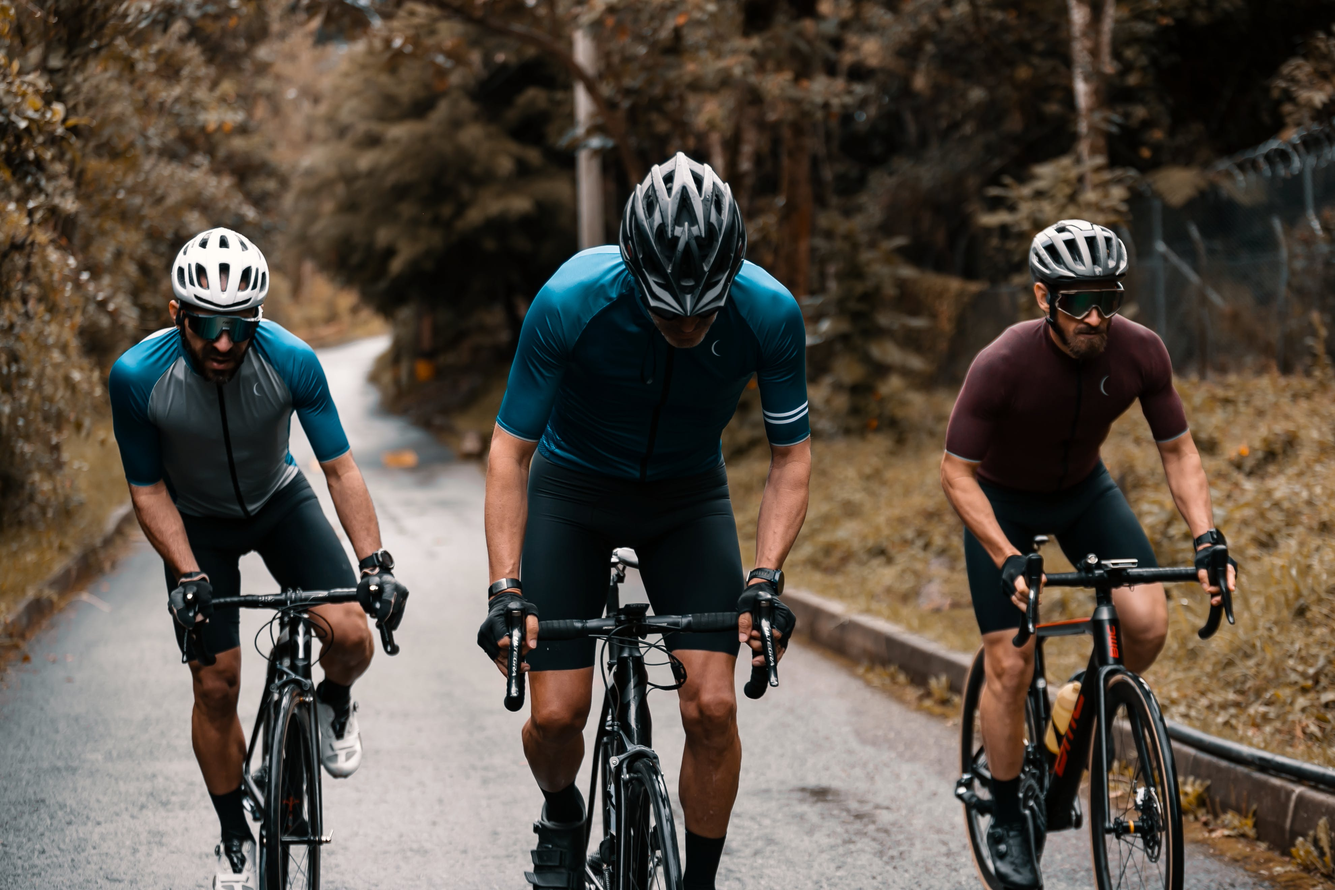
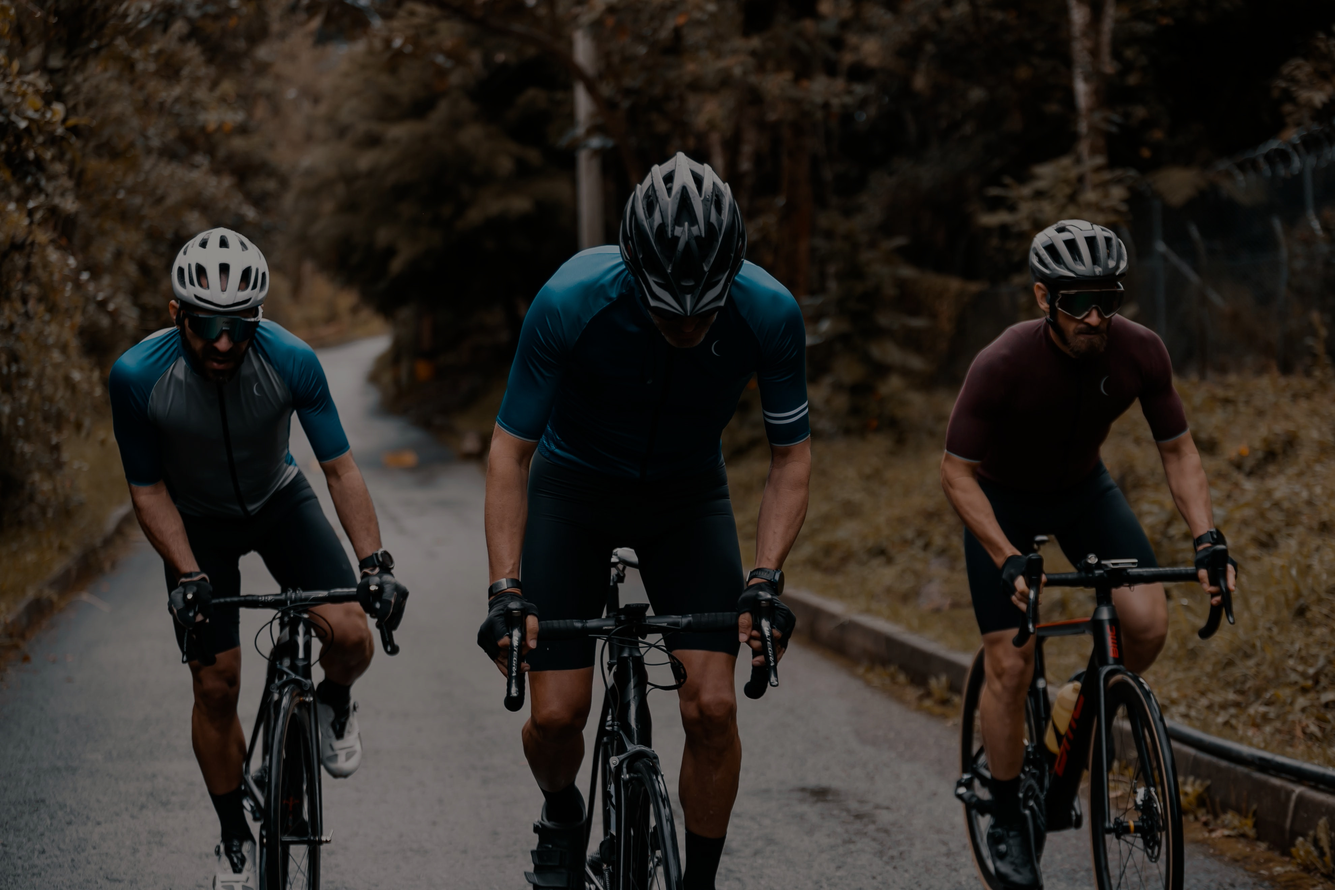
changer l'opacité des images

diff --git a/page-accueil.html b/page-accueil.html
@@ -7,6 +7,7 @@
     <link href="style-accueil.css" rel="stylesheet" >
 </head>
 <body>
+    <!-- bar de navigation -->
     <nav>
         <a class="nav-bouton" href=""><img src="images/logo.png" alt="Logo" height="39"></a>
         <a class="nav-bouton"><img src="images/trois lignes.png" alt="Logo" height="42"></a>
@@ -17,14 +18,14 @@
             <a class="nav-bouton2"><img src="images/panier.png" alt="Logo" height="45"></a>
             <a class="nav-bouton2"><img src="images/loupe.png" alt="Logo" height="42"></a>
         </div>
-        
     </nav>
     <main>
-        <!-- image  -->
+        <!-- photo principal  -->
         <div class="titre-image">
             <h1>BradleySteal Sports Optics</h1>
         </div>
 
+        <!-- section lunettes de ski -->
         <section>
             <div class="ski-image">
                 <h2>NOS LUNETTES DE SKI</h2>
@@ -68,6 +69,7 @@
             </div>
         </section>
 
+        <!-- section lunettes de cyclisme -->
         <section>
             <div class="cyclisme-image">
                 <h2>NOS LUNETTES DE CYCLISME</h2>
